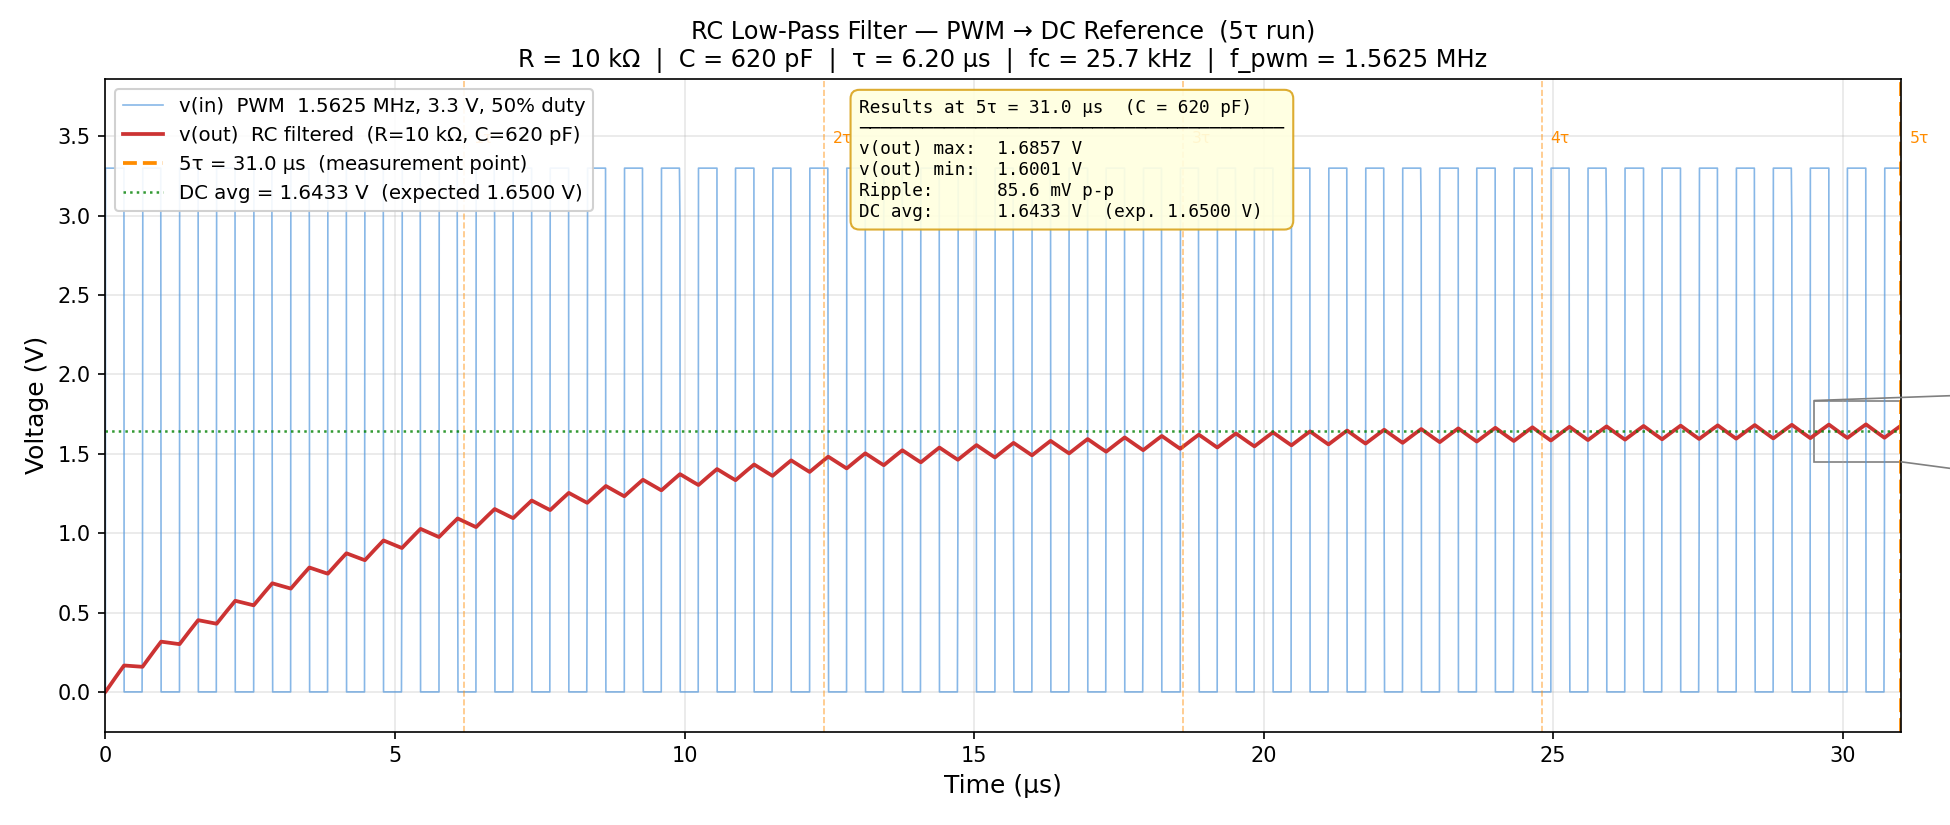
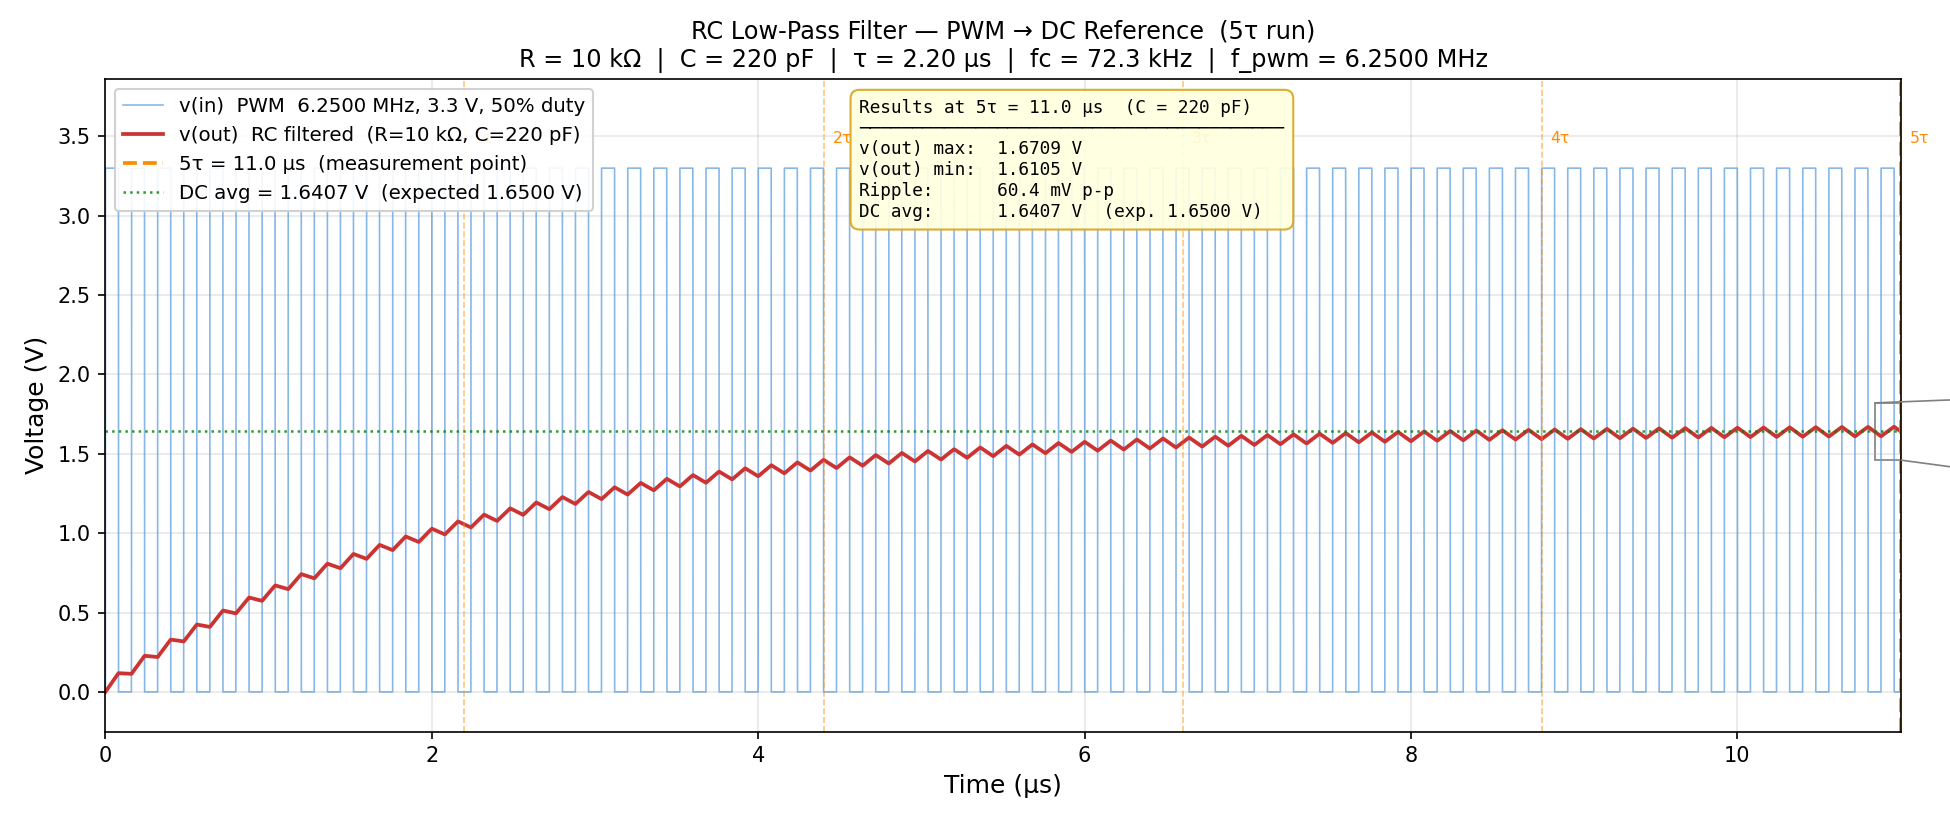
new spic simulation with faster clock, top modul started, and behavorial comparator for simulation

diff --git a/adc/ref_voltage/PWM_RC_simulation/readme.md b/adc/ref_voltage/PWM_RC_simulation/readme.md
@@ -2,17 +2,21 @@
 The current design uses the following values
 
 R=10kOhms
-C=620pF
+C=220pF
 
 time constant = 6.2us
 (will be letting it ramp for 5 time constants)
-settle cycles (25MHz clk) = 775 Cycles
+settle cycles (25MHz clk) = 275 Cycles
 
-f(cutoff) = 25.67 kHz
+f(cutoff) = 72.3 kHz
 
 
 PWM Configurations
 
-f(pwm) = 1.5625 MHz
+f(pwm) = 6.25 MHz
+
+Note: The system clock and the PWM clock will be different
+System CLK = 25MHz
+PWM CLK = 100Mhz
 
 